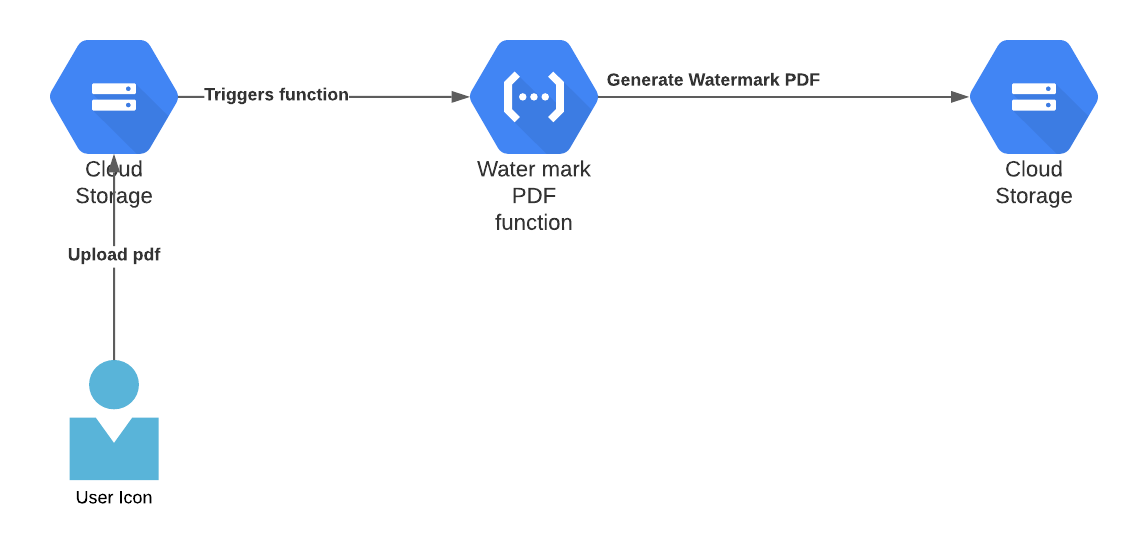
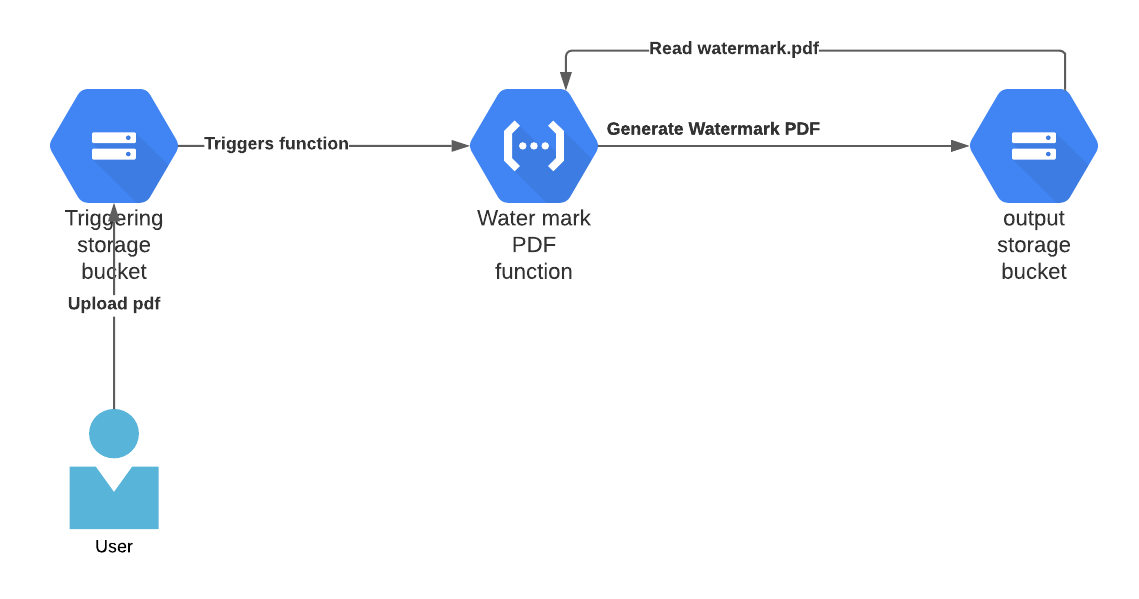
Updated readme

Changed region(s): [[0.0307, 0.0618, 0.9833, 0.5255], [0.0615, 0.6491, 0.1536, 0.8345], [0.0615, 0.8655, 0.1536, 0.9273]]

diff --git a/src/function/main.py b/src/function/main.py
@@ -5,6 +5,7 @@ from google.cloud import storage
 
 storage_client = storage.Client()
 output_bucket_name = os.getenv("WATERMARK_OUTPUT_BUCKET_NAME")
+watermark_file_name = 'watermark.pdf'
    
 def watermark_file(event, context):
     """Background Cloud Function to be triggered by Cloud Storage.
@@ -19,6 +20,8 @@ def watermark_file(event, context):
     Returns:
         None; the output is written to Stackdriver Logging
     """
+    print_function_meta_data(context, event)
+
     print('instantiating storage client')
     uploaded_file = format(event['name'])
     input_bucket_name = event["bucket"]
@@ -27,14 +30,16 @@ def watermark_file(event, context):
         print('Invalid file format uploaded..Function will not watermark')
         return
    
-    storage_client = storage.Client()
     print('Reading from Bucket: {}'.format(event['bucket']))
     print('Reading the file to watermark: {}'.format(event['name']))
    
     input_blob = storage_client.bucket(input_bucket_name).get_blob(uploaded_file)
-    watermark_blob = storage_client.bucket(output_bucket_name).get_blob('watermark.pdf')
-   
-    print_function_meta_data(context, event)
+    watermark_blob = storage_client.bucket(output_bucket_name).get_blob(watermark_file_name)
+
+    if(watermark_blob == None):
+        print('Failed to read: {} Function cannot watermark!!'.format(watermark_file_name))
+        return
+
     watermark_pdf(input_blob, watermark_blob)
     
 def print_function_meta_data(context, event):

diff --git a/README.md b/README.md
@@ -4,17 +4,25 @@
 
 # Introduction
 
-A Python cloud function that watermarks an uploaded pdf to cloud storage
+A Python cloud function that watermarks an uploaded pdf to cloud storage. It does this using a Python library 
+which merges one pdf with the watermark with the source pdf.
 
 ## Pre-requesites
 
 To use this repo you will require:
 * Python 3
 * gcloud cli
+* GCP project
+* Cloud function
 
 # Architecture
 
 ![architecture](watermark-cloudfunction.png)
+
+There are two cloud storage buckets:
+
+1) input storage bucket. This is the Cloud function trigger bucket. Upload the file to watermark. 
+2) output storage bucket. Where the watermark pdf exists and where the final merged pdf is generated.
 
 ## creating a cloud function from gcloud
 
@@ -36,6 +44,7 @@ To deploy the function run the following gcloud function from the folder where t
 
 In this repo change 
 ```
+cd src/function
 gcloud functions deploy watermark_file \
 --runtime python39 --trigger-bucket=storagebucket 
 --set-env-vars WATERMARK_OUTPUT_BUCKET_NAME=storageoutputbucket
@@ -45,7 +54,19 @@ Where storagebucket is the bucket triggering the function and storageoutputbucke
 
 ## Uploading a file to test trigger
 
+The Python package watermarks the uploaded pdf by merging it with a file called watermark.pdf
+
+1) Upload watermark.pdf to the output cloud storage bucket
+2) Upload a pdf to watermark to the input storage cucket
+
 To test trigger upload a pdf file from this repo:
 
-gsutil cp watermark.pdf  gs://bucketname
+```
+gsutil cp watermark.pdf gs://outputbucket
+gsutil cp input.pdf  gs://inputstoragebucket
 
+```
+
+## Monitor the cloud function
+
+You can watch the trace logs in the GCP portal by navigating to the log tab in the function.
